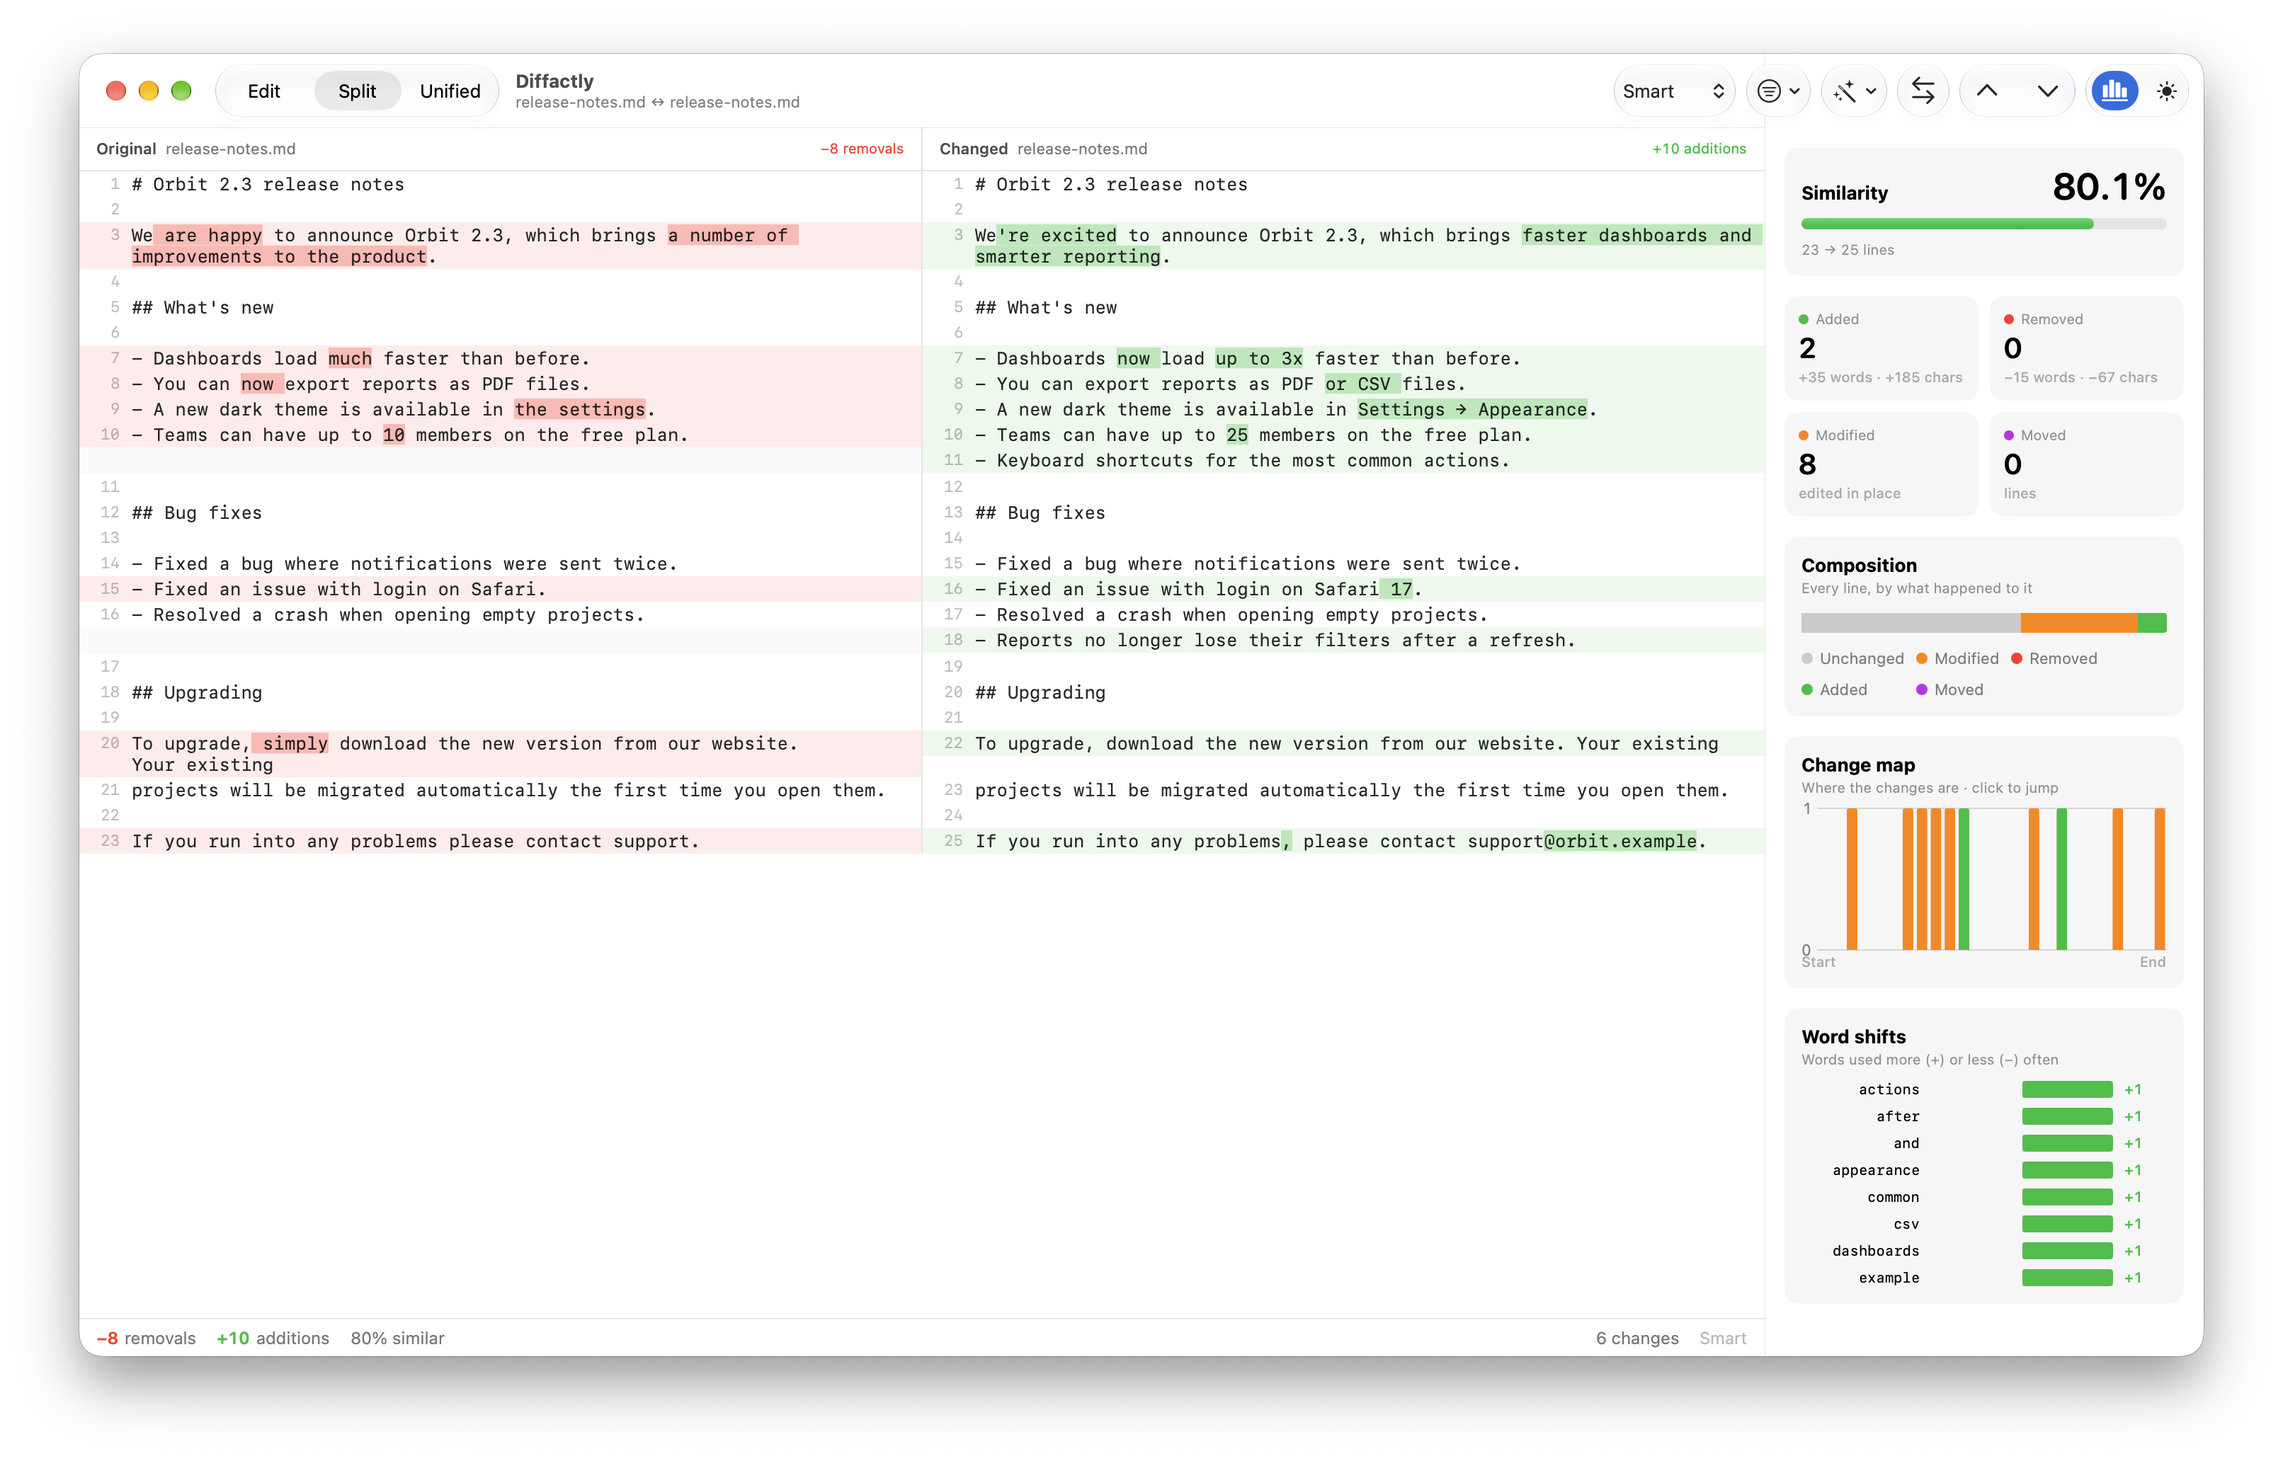
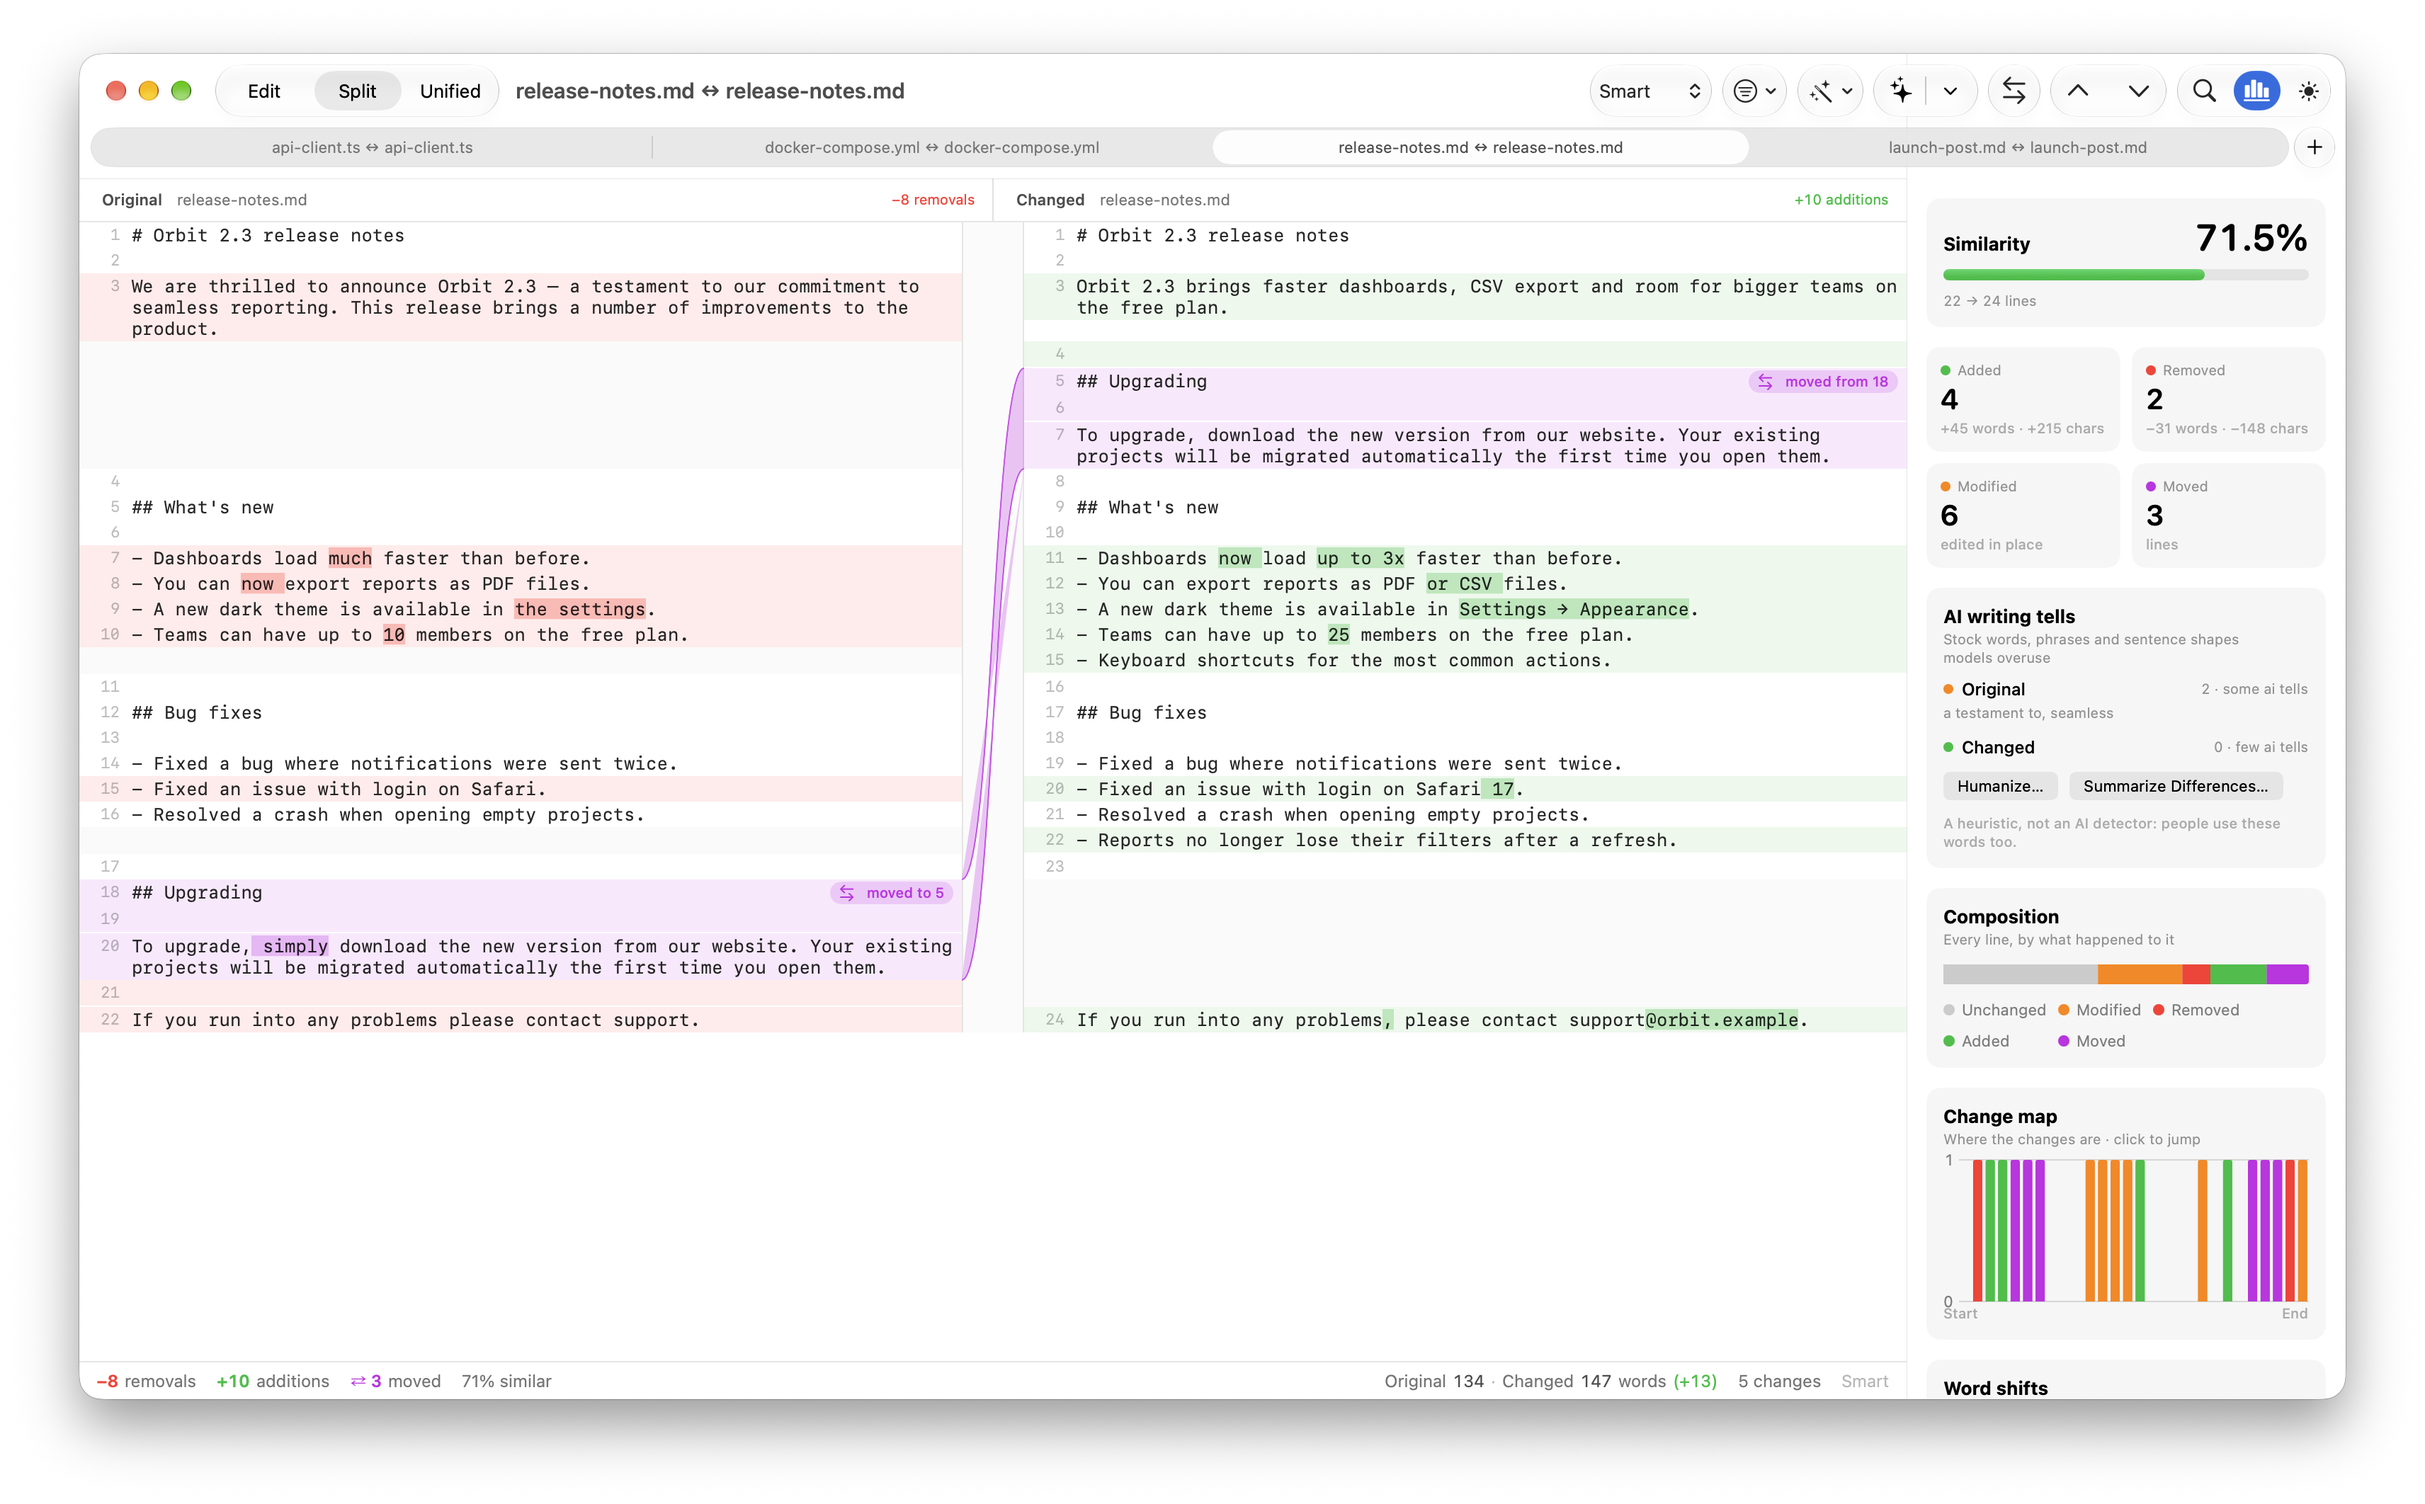
docs: refresh README screenshots for tabs, find, ribbons and AI rewrite
Retake the split, unified and insights screenshots with the current
toolbar and tab bar, showing find matches, a connector ribbon for a
moved section and the AI-writing-tell card, and add a shot of the AI
rewrite sheet humanizing a launch post with a local model. Note in the
intro that Diffactly is a free alternative to FileMerge, Kaleidoscope,
Beyond Compare and online diff checkers.

diff --git a/README.md b/README.md
@@ -8,6 +8,8 @@
 
 Compare code, configs and documents with accurate line, word and character diffs, moved-block detection and live highlighting as you type. Keep several comparisons open in tabs and search both sides at once. When the writing itself needs work, bring your own AI model to humanize or rewrite a text, rewrite one passage in context, or summarize what changed. It works with OpenAI, Anthropic, Gemini and OpenRouter, or locally with Ollama, LM Studio and other servers on your Mac.
 
+Diffactly is a free, open-source alternative to FileMerge, Kaleidoscope, Beyond Compare and online tools like Diffchecker: your text never has to leave your Mac to be compared.
+
 ## ✨ What's new
 
 - **AI writing tools (optional)**: rewrite or humanize either text, blend both into one, rewrite just a selected passage so it still fits the document around it, or get a plain-language summary of the differences. Attach reference documents (say, the rest of a paper) for background. AI stays off until you add a provider in Settings, and with a local server nothing leaves your Mac
@@ -20,17 +22,21 @@ Compare code, configs and documents with accurate line, word and character diffs
 
 ## Screenshots
 
-**Review a code change** – side-by-side, with word- and character-level highlights inside edited lines.
+**Review a code change** – side-by-side, with word- and character-level highlights inside edited lines, and each comparison in its own tab.
 
-<img src="assets/screenshots/split-view-dark.png" alt="Diffactly split view comparing two versions of a TypeScript file in dark mode">
+<img src="assets/screenshots/split-view-dark.png" alt="Diffactly split view comparing two versions of a TypeScript file in dark mode, with four comparison tabs open">
 
-**Check a config change before you ship it** – a unified view in light mode, like `git diff` but readable.
+**Compare document revisions** – a ribbon follows the section that moved, and the optional Insights panel adds similarity, AI-writing tells, line composition and a clickable change map.
 
-<img src="assets/screenshots/unified-view-light.png" alt="Diffactly unified view showing a docker-compose.yml upgrade in light mode">
+<img src="assets/screenshots/insights-light.png" alt="Diffactly split view of edited release notes with a connector ribbon linking a moved section and the Insights panel showing AI writing tells">
 
-**Compare document revisions** – with the optional Insights panel: similarity, line composition, a clickable change map and word shifts.
+**Humanize AI-sounding text** – rewrite with your own model (here Mistral Small running locally in oMLX). The AI-tell count drops from 12 to 0, and *Use Result* puts the rewrite on the other side so you can see exactly what changed.
 
-<img src="assets/screenshots/insights-light.png" alt="Diffactly split view of release notes with the Insights panel open">
+<img src="assets/screenshots/ai-rewrite-dark.png" alt="Diffactly AI rewrite sheet humanizing a launch post with a local model, cutting the AI-tell count from 12 to 0">
+
+**Check a config change before you ship it** – a unified view in light mode, like `git diff` but readable, with Find (⌘F) highlighting every match.
+
+<img src="assets/screenshots/unified-view-light.png" alt="Diffactly unified view of a docker-compose.yml upgrade in light mode with the find bar highlighting matches">
 
 ## Features
 
